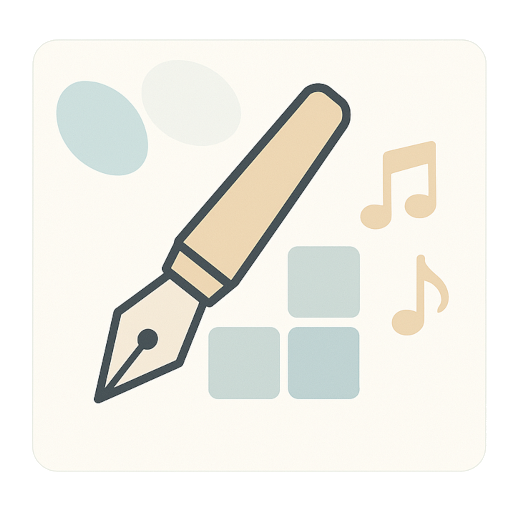
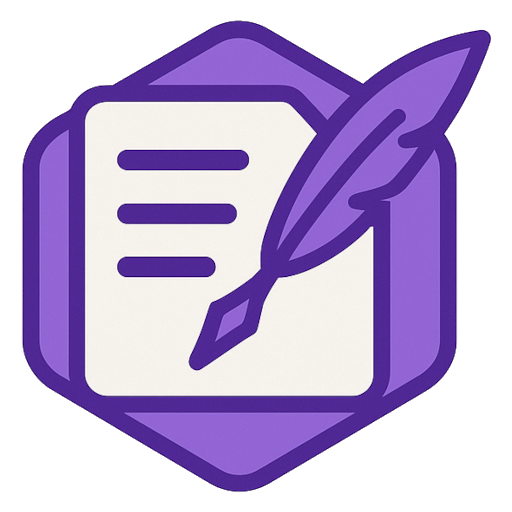
Initial public release v0.0.1

diff --git a/src/main.tsx b/src/main.tsx
@@ -5,6 +5,7 @@ import { RecoilRoot } from 'recoil';
 import 'VectorDBManager';
 import App from './App';
 import settings from './settings';
+
 async function main() {
   const key = logseq.baseInfo.id;
   console.info(`${key}: MAIN`);
@@ -23,6 +24,16 @@ async function main() {
   logseq.provideModel({
     show() {
       logseq.showMainUI();
+      
+      setTimeout(() => {
+        const container = document.getElementById("messages-container");
+        if (container) {
+          container.scrollTop = container.scrollHeight;
+          //console.log("Scrolled to bottom");
+        } else {
+          console.warn("Messages container not found.");
+        }
+      }, 300); // Adjust the delay if needed.
     },
   });
 
@@ -31,7 +42,7 @@ async function main() {
     zIndex: 11,
   });
 
-  const toolbarButtonKey = 'tags-plugin-open';
+  const toolbarButtonKey = 'logseq-composer';
 
   logseq.provideStyle(`
     div[data-injected-ui=${toolbarButtonKey}-${key}] {
@@ -45,11 +56,17 @@ async function main() {
   logseq.App.registerUIItem('toolbar', {
     key: toolbarButtonKey,
     template: `
-    <a data-on-click="show" class="button" style="font-size: 20px">
-      #
-    </a>
-  `,
+      <a data-on-click="show" class="button"
+         style="display: flex; align-items: center; justify-content: center; width: 36px; height: 36px;">
+        <svg xmlns="http://www.w3.org/2000/svg" width="32" height="32" fill="currentColor" viewBox="0 0 24 24">
+  <path fill-rule="evenodd" d="M8 7V2.221a2 2 0 0 0-.5.365L3.586 6.5a2 2 0 0 0-.365.5H8Zm2 0V2h7a2 2 0 0 1 2 2v.126a5.087 5.087 0 0 0-4.74 1.368v.001l-6.642 6.642a3 3 0 0 0-.82 1.532l-.74 3.692a3 3 0 0 0 3.53 3.53l3.694-.738a3 3 0 0 0 1.532-.82L19 15.149V20a2 2 0 0 1-2 2H5a2 2 0 0 1-2-2V9h5a2 2 0 0 0 2-2Z" clip-rule="evenodd"/>
+  <path fill-rule="evenodd" d="M17.447 8.08a1.087 1.087 0 0 1 1.187.238l.002.001a1.088 1.088 0 0 1 0 1.539l-.377.377-1.54-1.542.373-.374.002-.001c.1-.102.22-.182.353-.237Zm-2.143 2.027-4.644 4.644-.385 1.924 1.925-.385 4.644-4.642-1.54-1.54Zm2.56-4.11a3.087 3.087 0 0 0-2.187.909l-6.645 6.645a1 1 0 0 0-.274.51l-.739 3.693a1 1 0 0 0 1.177 1.176l3.693-.738a1 1 0 0 0 .51-.274l6.65-6.646a3.088 3.088 0 0 0-2.185-5.275Z" clip-rule="evenodd"/>
+</svg>
+
+      </a>
+    `,
   });
+  
 }
 
 logseq.useSettingsSchema(settings);

diff --git a/src/settings.ts b/src/settings.ts
@@ -47,13 +47,6 @@ const settings: SettingSchemaDesc[] = [
     title: 'API Key',
     description: 'Enter your API key for the service',
     default: 'sk-proj-1234',
-  },
-  {
-    key: 'VectorDBLogseqCopilot',
-    type: 'string',
-    title: 'VectorDBLogseqCopilot DEV!',
-    description: 'VectorDB JSON dont edit',
-    default: '',
   }
 ];
 

diff --git a/src/App.tsx b/src/App.tsx
@@ -228,7 +228,7 @@ export function App({ themeMode: initialThemeMode }: Props) {
           <CloseButton onClick={() => window.logseq.hideMainUI()}>✖</CloseButton>
         </Header>
 
-        <MessagesContainer>
+        <MessagesContainer id="messages-container">
           <ChatMessageList messages={messages} />
           <div ref={messagesEndRef} />
         </MessagesContainer>

diff --git a/src/state/settings.ts b/src/state/settings.ts
@@ -7,6 +7,7 @@ interface IPluginSettings {
   EmbeddingApiKey: string;
   LiteLLMLink: string;
   apiKey: string;
+  VectorDBLogseqCopilot: string;
 
 }
 